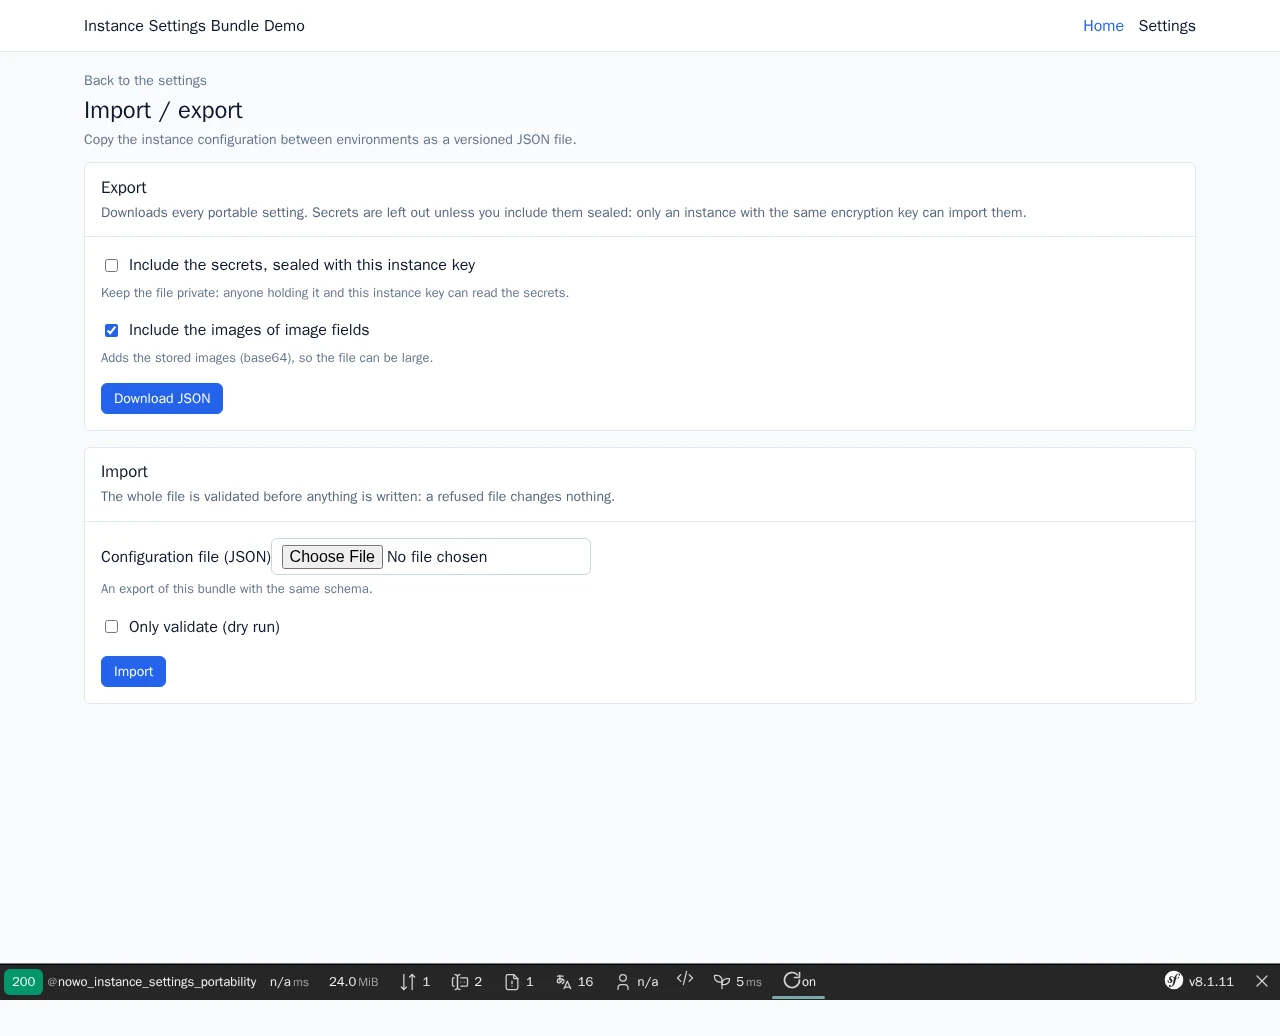
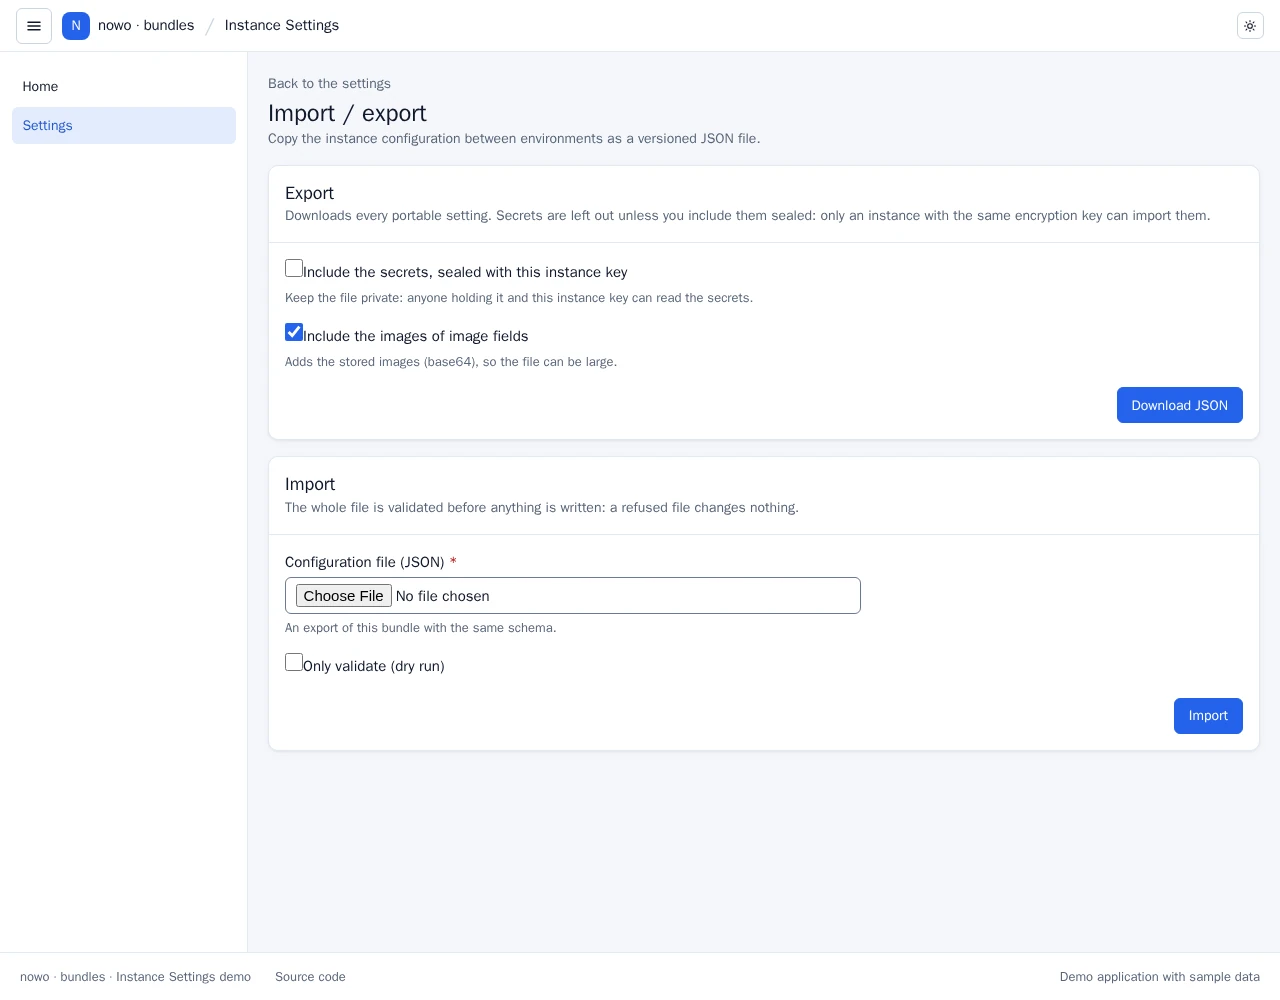
chore(demo): run the demo in UiKit's demo platform shell (#62)

diff --git a/demo/symfony8/e2e/tests/demo-platform.spec.ts b/demo/symfony8/e2e/tests/demo-platform.spec.ts
@@ -1,0 +1,174 @@
+import { test, expect, type Page } from '@playwright/test';
+import AxeBuilder from '@axe-core/playwright';
+
+/**
+ * UiKit demo platform shell (REQ-DEMO-014): layout grammar, demo styles, host theme tokens, framework classes, the
+ * closed phone drawer, 44 px touch targets and input borders on every demo page, plus axe (wcag2a / 2aa / 21a / 21aa,
+ * serious + critical = 0) in light and dark, desktop and phone, and the keyboard drawer pass.
+ */
+type Theme = 'light' | 'dark';
+type PageEntry = string | ((page: Page) => Promise<string>);
+
+async function prepare(_page: Page): Promise<void> {}
+
+async function setTheme(page: Page, theme: Theme): Promise<void> {
+  await page.evaluate((t) => {
+    document.documentElement.setAttribute('data-theme', t);
+    document.documentElement.setAttribute('data-bs-theme', t);
+  }, theme);
+}
+
+async function axe(page: Page): Promise<string[]> {
+  const result = await new AxeBuilder({ page }).withTags(['wcag2a', 'wcag2aa', 'wcag21a', 'wcag21aa']).exclude('.sf-toolbar').analyze();
+  return result.violations
+    .filter((v) => v.impact === 'serious' || v.impact === 'critical')
+    .map((v) => `${v.id}: ${v.nodes.map((n) => n.target.join(' ')).join(', ')}`);
+}
+
+/** The demo layout + style rules (docs/USAGE.md "Demo platform shell"; same function as the rollout brief's spec): layout grammar,
+ * no demo styles / host tokens / framework classes, closed drawer inert, 44 px targets on coarse pointers, input borders 3:1. */
+/* eslint-disable */
+// prettier-ignore
+function demoPlatformRules(): string[] {
+  const issues = [];
+  const main = document.querySelector('#nowo-ui-content');
+  const shell = document.querySelector('[data-testid="demo-platform"]');
+  if (!main || !shell) return ['no-demo-platform-shell'];
+  const visible = (el) => !!(el.offsetWidth || el.offsetHeight || el.getClientRects().length);
+  const carded = (el) => el.closest('.nowo-ui-card, [data-nowo-ui-region="table"], [data-nowo-ui-region="form"], .nowo-ui-form-panel, dialog');
+  const skip = (el) => el.closest('dialog, [data-nowo-ui-region="filters"], .nowo-ui-filters, .nowo-ui-page-header');
+
+  // Layout grammar.
+  main.querySelectorAll('table').forEach((t) => { if (!carded(t)) issues.push('table-outside-card'); });
+  main.querySelectorAll('form').forEach((f) => {
+    if (f.querySelector('input:not([type="hidden"]), select, textarea') && !carded(f) && !skip(f) && !f.closest('table')) issues.push('form-outside-card');
+  });
+  const primaries = [...main.querySelectorAll('.nowo-ui-btn--primary')].filter((b) => visible(b) && !b.closest('table, dialog, [data-nowo-ui-region="filters"], .nowo-ui-filters, form'));
+  if (primaries.length > 1) issues.push(`primary-buttons:${primaries.length}`);
+  const header = main.querySelector('.nowo-ui-page-header');
+  const flashes = main.querySelector('.nowo-ui-flashes');
+  if (header && flashes && (flashes.compareDocumentPosition(header) & Node.DOCUMENT_POSITION_FOLLOWING)) issues.push('flashes-before-page-header');
+  if (document.documentElement.scrollWidth > document.documentElement.clientWidth + 1) issues.push('page-scrolls-horizontally');
+
+  // Styles: no demo styles, no host theme tokens, no CDN / foreign stylesheet, no framework classes inside the shell.
+  document.querySelectorAll('style').forEach((s) => {
+    if (s.matches('[data-nowo-ui-theme-tokens], [data-nowo-ui-appearance]')) { issues.push('host-theme-tokens'); return; }
+    if (!/sf-toolbar|sfwdt|sf-minitoolbar|sf-display/.test(s.textContent || '') && !s.closest('[id^="sfwdt"], .sf-toolbar')) issues.push('style-element');
+  });
+  document.querySelectorAll('link[rel="stylesheet"]').forEach((l) => {
+    const path = new URL(l.href, location.href).pathname;
+    if (!path.startsWith('/bundles/') && !path.startsWith('/_wdt/') && !path.startsWith('/_profiler/')) issues.push(`stylesheet:${path}`);
+  });
+  const framework = /^(acme-.*|nav-tabs|nav-link|nav-item|alert|alert-.*|form-check.*|form-control|form-select|form-label|btn|btn-.*|card|card-.*|badge|row|col|col-.*|table|table-.*)$/;
+  shell.querySelectorAll('[class]').forEach((el) => {
+    for (const c of el.classList) { if (framework.test(c)) { issues.push(`framework-class:${c}`); break; } }
+  });
+
+  // Drawer: below 901 px a closed drawer is inert and the burger says so.
+  const aside = shell.querySelector('[data-nowo-ui-aside]');
+  if (aside && window.innerWidth < 901) {
+    const open = shell.classList.contains('is-aside-open-mobile');
+    if (!open && !aside.hasAttribute('inert')) issues.push('drawer-not-inert');
+    shell.querySelectorAll('[data-nowo-ui-burger]').forEach((b) => {
+      if (visible(b) && b.getAttribute('aria-expanded') !== (open ? 'true' : 'false')) issues.push('burger-state');
+    });
+  }
+
+  // Touch: 44 px targets on coarse pointers (checkbox / radio 24 px, their label carries the 44 px row).
+  if (window.matchMedia('(pointer: coarse)').matches) {
+    const controls = [...shell.querySelectorAll('.nowo-ui-btn, button, summary, input:not([type="hidden"]), select, textarea, [role="tab"], .nowo-ui-aside__link, .nowo-ui-demo-platform__locale')]
+      .filter((el) => visible(el) && !el.closest('[inert], table'));
+    for (const el of controls) {
+      const r = el.getBoundingClientRect();
+      const small = el.matches('input[type="checkbox"], input[type="radio"]') ? r.height < 24 || r.width < 24 : r.height < 43.5;
+      if (small) { issues.push(`target-under-44px:${(el.className && String(el.className).split(' ')[0]) || el.tagName.toLowerCase()}`); }
+    }
+  }
+
+  // Inputs: boundary 3:1 or more against the surface behind them (WCAG 1.4.11).
+  const rgb = (c) => { const m = c.match(/[\d.]+/g); return m ? m.slice(0, 4).map(Number) : null; };
+  const lum = (c) => { const v = c.slice(0, 3).map((x) => { const s = x / 255; return s <= 0.03928 ? s / 12.92 : ((s + 0.055) / 1.055) ** 2.4; }); return 0.2126 * v[0] + 0.7152 * v[1] + 0.0722 * v[2]; };
+  const bgOf = (el) => { for (let n = el.parentElement; n; n = n.parentElement) { const c = rgb(getComputedStyle(n).backgroundColor); if (c && (c.length < 4 || c[3] > 0)) return c; } return [255, 255, 255]; };
+  shell.querySelectorAll('input:not([type="hidden"], [type="checkbox"], [type="radio"]), select, textarea').forEach((el) => {
+    if (!visible(el) || el.closest('[inert]')) return;
+    const border = rgb(getComputedStyle(el).borderTopColor);
+    if (!border) return;
+    const a = lum(border); const b = lum(bgOf(el));
+    if ((Math.max(a, b) + 0.05) / (Math.min(a, b) + 0.05) < 3) issues.push(`input-border-under-3:1:${el.id || el.name || el.tagName.toLowerCase()}`);
+  });
+
+  return [...new Set(issues)];
+}
+
+
+const PAGES: PageEntry[] = ['/', '/admin/settings/sections/site', '/admin/settings/sections/mailer', '/admin/settings/sections/sms', '/admin/settings/portability'];
+
+const BUNDLE_OWNED: Array<{ path: RegExp; rule: RegExp }> = [
+  // Bundle-owned (colour field of the settings scaffold): the swatch is under 44 px on touch and its border under 3:1.
+  { path: /^\/admin\/settings\//, rule: /^(target-under-44px:nowo-instance-settings-color__swatch|input-border-under-3:1:settings_section_accent_color_swatch)/ },
+];
+
+/** Findings on a bundle's own page are reported as bundle-owned (not patched in the demo): they are filtered here, by path and rule. */
+function demo(url: string, issues: string[]): string[] {
+  const path = new URL(url).pathname;
+  return issues.filter((issue) => !BUNDLE_OWNED.some((o) => o.path.test(path) && o.rule.test(issue)));
+}
+
+async function resolvePath(page: Page, entry: PageEntry): Promise<string> {
+  return typeof entry === 'function' ? entry(page) : entry;
+}
+
+test.describe('demo platform rules', () => {
+  test('desktop 1440 px', async ({ page }) => {
+    await page.setViewportSize({ width: 1440, height: 900 });
+    await prepare(page);
+    for (const path of PAGES) {
+      await page.goto(await resolvePath(page, path));
+      expect(demo(page.url(), await page.evaluate(demoPlatformRules)), page.url()).toEqual([]);
+    }
+  });
+
+  test.describe('phone 390 px, touch', () => {
+    test.use({ viewport: { width: 390, height: 844 }, isMobile: true, hasTouch: true });
+
+    test('rules on every page', async ({ page }) => {
+      await prepare(page);
+      for (const path of PAGES) {
+        await page.goto(await resolvePath(page, path));
+        expect(demo(page.url(), await page.evaluate(demoPlatformRules)), page.url()).toEqual([]);
+      }
+    });
+
+    test('keyboard drawer pass', async ({ page }) => {
+      await prepare(page);
+      await page.goto(await resolvePath(page, PAGES[0]));
+      const aside = page.locator('[data-nowo-ui-aside]');
+      await expect(aside).toHaveAttribute('inert', '');
+      const burger = page.locator('[data-nowo-ui-burger]').first();
+      await expect(burger).toHaveAttribute('aria-expanded', 'false');
+      await burger.focus();
+      await page.keyboard.press('Enter');
+      await expect(page.getByTestId('demo-platform')).toHaveClass(/is-aside-open-mobile/);
+      await expect(page.locator('[data-nowo-ui-aside] :focus')).toHaveCount(1);
+      await expect(page.locator('.nowo-ui-main')).toHaveAttribute('inert', '');
+      await expect(page.locator('html')).toHaveClass(/nowo-ui-drawer-open/);
+      await page.keyboard.press('Escape');
+      await expect(burger).toBeFocused();
+      await expect(aside).toHaveAttribute('inert', '');
+    });
+  });
+
+  for (const theme of ['light', 'dark'] as Theme[]) {
+    for (const [name, width] of [['desktop', 1440], ['phone', 390]] as const) {
+      test(`axe clean: ${name}, ${theme}`, async ({ page }) => {
+        await page.setViewportSize({ width, height: 900 });
+        await prepare(page);
+        for (const path of PAGES) {
+          await page.goto(await resolvePath(page, path));
+          await setTheme(page, theme);
+          expect(demo(page.url(), await axe(page)), page.url()).toEqual([]);
+        }
+      });
+    }
+  }
+});

diff --git a/demo/symfony8/e2e/tests/helpers.ts b/demo/symfony8/e2e/tests/helpers.ts
@@ -1,25 +1,9 @@
 import { type Page } from '@playwright/test';
 
-/** Wait until the Symfony Web Debug Toolbar has finished loading (optional outside dev). */
+/** The Symfony Web Debug Toolbar is not part of the demo platform: hide it so it never appears in a capture. */
 export async function waitForWebProfiler(page: Page): Promise<void> {
-  await page.waitForSelector('.sf-toolbar', { state: 'visible', timeout: 20000 }).catch(() => undefined);
-  const mini = page.locator('.sf-minitoolbar a').first();
-  if (await mini.isVisible().catch(() => false)) {
-    await mini.click();
-  }
-  await page
-    .waitForFunction(
-      () => {
-        const bar = document.querySelector('.sf-toolbar') as HTMLElement | null;
-        if (!bar || bar.offsetParent === null) {
-          return true;
-        }
-        return !!document.querySelector('.sf-toolbar-block');
-      },
-      { timeout: 25000, polling: 250 },
-    )
-    .catch(() => undefined);
-  await new Promise((r) => setTimeout(r, 400));
+  await page.addStyleTag({ content: '.sf-toolbar,.sf-minitoolbar,[id^="sfwdt"]{display:none!important}' });
+  await new Promise((r) => setTimeout(r, 300));
 }
 
 /** The section form of the settings scaffold. */

diff --git a/demo/symfony8/config/reference.php b/demo/symfony8/config/reference.php
@@ -1414,10 +1414,18 @@ use Symfony\Component\Config\Loader\ParamConfigurator as Param;
  *         tokens_dark?: array<string, mixed>,
  *         confirm_message_in_header?: bool|Param, // Confirm dialogs and the full-page confirm render the message inside the header, under the title (hosts whose dialog header is title + message). View\Confirm::messageInHeader wins when set. // Default: false
  *         popover_menus?: bool|Param, // 2.4: menu / kebab / row-action menus render their panel as a native [popover] (browser top layer: never clipped by table scrollers or cards; nowo-ui-popover.js places it). The partial option `popover` wins. // Default: false
+ *         context_menus?: bool|Param, // 2.54: kebab / row-action menus also open as the context menu of the row or card around them (right-click, the ContextMenu key, Shift+F10, long press on touch), with the same items. Loads the opt-in context-menu runtime through the scripts partial. The partial option `context_menu` wins; data-nowo-ui-context-menu="off" opts a row out. // Default: false
  *         form_errors_after_widget?: bool|Param, // 2.10: the UiKit form theme (form/nowo_ui_layout.html.twig) prints a field's errors after its widget (and before the help), instead of Symfony's order (label, errors, widget, help). // Default: false
  *         menu_semantics?: null|"menu"|"disclosure"|Param, // 2.28: ARIA of popover menus with items. null (default) = as 2.27; menu = APG menu button (role="menu" / menuitem, arrow keys in nowo-ui-popover.js); disclosure = no aria-haspopup. The menu partial option `menu_semantics` wins. // Default: null
  *         dialog?: array{ // 2.31: kit dialog options (docs/THEMING.md#dialog-sizes-229).
  *             height?: "content"|"size"|Param, // 2.31: content (default, dialog rule v2) = a dialog is as tall as its content, capped at min(the size's height token, 100dvh - 2rem), only the body scrolls; size = every dialog with a field, list, table or fold has the size's height (2.29 / 2.30), printed as --nowo-ui-dialog-fill: 1 by nowo_ui_theme_css(). // Default: "content"
+ *         },
+ *         focus_mode?: array{ // 2.55: shell focus mode — [data-nowo-ui-focus-mode] toggles hide the shell regions (level 1) and optionally enter the browser fullscreen (level 2); js/nowo-ui-focus-mode.js. See docs/USAGE.md#shell-focus-mode-255.
+ *             enabled?: bool|Param, // false (default): no shell attributes, no focus bar, the focus_mode_toggle partial renders nothing and the scripts partial does not load the runtime. // Default: false
+ *             regions?: list<scalar|Param|null>,
+ *             keep?: list<scalar|Param|null>,
+ *             shortcut?: scalar|Param|null, // Key that toggles level 1 on pages with a toggle (never while typing, with a modifier pressed or with a dialog / menu open); e.g. F or Alt+Shift+F. null or false: no shortcut. // Default: "F"
+ *             fullscreen?: bool|Param, // Offer level 2 (the browser fullscreen on the shell, from the focus bar or a fullscreen toggle). Unsupported or refused by the browser: level 1 stays. // Default: true
  *         },
  *         bundles?: array<string, array{ // Default: []
  *             framework_defaults?: bool|Param, // Override of theme.framework_defaults for this bundle (unset = inherit).
@@ -1489,6 +1497,7 @@ use Symfony\Component\Config\Loader\ParamConfigurator as Param;
  *         sidebar_rail_value?: scalar|Param|null, // Cookie value of the icons-only rail. // Default: "rail"
  *         sidebar_storage?: scalar|Param|null, // localStorage key of the aside mode (data-nowo-ui-sidebar-storage on the shell root; kit_styles + rail only). // Default: null
  *         sidebar_layout?: "below-header"|"full-height"|Param, // 2.32: below-header (default, the 2.31 markup byte for byte) | full-height: on desktop the aside runs from the top edge with the burger and the brand in its head (aside_brand_html / brand_icon_html + brand_name / brand_html), the header and the footer start at its right edge. The app_shell_open option sidebar_layout, then the request attribute _nowo_ui_sidebar_layout, win over it. // Default: "below-header"
+ *         sidebar_style?: "classic"|"inset"|Param, // 2.52: classic (default, the 2.51 markup byte for byte) | inset: on desktop the header, the aside and the footer share one shell surface with no border between them, and the content is an inset panel with rounded corners (tokens --nowo-ui-shell-inset-gap / -radius / -surface / -panel-surface). Phones are unchanged. The app_shell_open option sidebar_style, then the request attribute _nowo_ui_sidebar_style, win over it. // Default: "classic"
  *         brand?: array{ // 2.32: the shell brand from config (no template override): the aside head of the full-height layout, and the header brand when a page passes neither brand_html nor brand. The app_shell_open options brand_name / brand_href / brand_icon_src / brand_icon_html / aside_brand_html win.
  *             name?: scalar|Param|null, // Brand name (text); the icons-only rail hides it and keeps it as the link name. // Default: null
  *             href?: scalar|Param|null, // Brand link: relative, http, https or mailto (validated when the container compiles; javascript:, data: and other schemes are refused). // Default: null
@@ -1660,6 +1669,8 @@ use Symfony\Component\Config\Loader\ParamConfigurator as Param;
  *         area_roles?: array<string, list<scalar|Param|null>>,
  *         reveal_roles?: list<scalar|Param|null>,
  *         reveal_rate_limiter?: scalar|Param|null, // 1.15: service id of a Symfony RateLimiterFactory (framework.rate_limiter.<name> gives limiter.<name>) consuming one token per reveal, keyed by the hashed actor; null = no limit. // Default: null
+ *         test_roles?: mixed, // 1.18: roles that may run the Test button of a section (any of them), asked on top of the section's own area. Null (default) = whoever may open the section may test it; an empty list refuses every test. With access_checker set, the custom checker decides the "_test" area (asked only when this is not null). // Default: null
+ *         test_rate_limiter?: scalar|Param|null, // 1.18: service id of a Symfony RateLimiterFactory consuming one token per section test, keyed by the hashed actor; null = the built-in limit (10 tests per actor per 10 minutes, kept in the settings store). // Default: null
  *         access_checker?: scalar|Param|null, // Service id implementing InstanceSettingsAccessCheckerInterface; null = role-based default. // Default: null
  *         allow_unauthenticated?: bool|Param, // DEV / DEMO only (refused without kernel.debug): open the UI without login. // Default: false
  *     },
@@ -1727,6 +1738,33 @@ use Symfony\Component\Config\Loader\ParamConfigurator as Param;
  *         warning?: bool|Param, // The settings page warns on the section and next to an expiring secret within warning_days of its date, or expired. // Default: true
  *         warning_days?: int|Param, // Days before the date from which the page warns (0 = only on the day and once expired). // Default: 30
  *         timezone?: scalar|Param|null, // Zone of "today" for the thresholds and the warning (e.g. "Europe/Madrid"). Null: the PHP default zone. // Default: null
+ *         notify?: array{ // Default expiry notifier (1.21): a mail and / or a NotifyKit bell notification to the people holding notify.roles at notify.days before a stored secret expires, once per secret, threshold and recipient. Off by default. Needs expiring_secrets.enabled.
+ *             enabled?: bool|Param, // Registers the notifier and maps its sent-marker table (instance_setting_secret_expiry_notice). Off by default: no schema change. Literal boolean only. // Default: false
+ *             days?: list<int|Param>,
+ *             roles?: list<scalar|Param|null>,
+ *             recipient_provider?: scalar|Param|null, // Service id implementing Expiry\Notify\ExpiryRecipientProviderInterface: the active users holding any of the roles (the bundle has no user model). Required when enabled. // Default: null
+ *             mail_template?: scalar|Param|null, // Twig template of the reminder mail without the suffix: <mail_template>.html.twig and <mail_template>.txt.twig. // Default: "@NowoInstanceSettingsBundle/expiry/notice"
+ *             mail_from?: scalar|Param|null, // From address of the reminder mail. Null = the mailer's (MailKit fills it from its settings). // Default: null
+ *             link_route?: scalar|Param|null, // Route of the link (gets the "section" parameter). Null = the section's settings page (no link without web_ui). // Default: null
+ *             fallback_link_route?: scalar|Param|null, // Route (no parameters) of the link for recipients who cannot open the settings (ExpiryRecipient::$canOpenSettings false). Null = no link. // Default: null
+ *             retention_days?: int|Param, // nowo:instance-settings:purge-expiry-notices deletes the sent-markers of expiry dates older than this many days (they hold recipient ids). // Default: 90
+ *             channels?: array{ // auto: mail when nowo-tech/mail-kit-bundle is installed, the bell when nowo-tech/notify-kit-bundle is; on: required (mail needs symfony/mailer); off: never.
+ *                 mail?: "auto"|"on"|"off"|Param, // Default: "auto"
+ *                 notify_kit?: "auto"|"on"|"off"|Param, // Default: "auto"
+ *             },
+ *             notify_kit?: array{ // NotifyKit bell channel options.
+ *                 recipient_type?: scalar|Param|null, // NotifyKit recipient type of ExpiryRecipient ids. // Default: "user"
+ *                 category?: scalar|Param|null, // NotifyKit category of the two types. // Default: "instance_settings"
+ *                 declare_category?: bool|Param, // Declare the category (false: the host declares it). // Default: true
+ *             },
+ *         },
+ *     },
+ *     conflict_response?: array{ // 1.22 (REQ-RUNTIME-003): answer of a lock conflict (deadlock, lock wait timeout, serialization failure) on the bundle's routes. Unset: nowo-tech/transaction-doctrine's conflict_response when that bundle is registered, else 409 with Retry-After 1.
+ *         status?: int|Param, // 409 (default, CONFLICT_001 / CONFLICT_002) or 503 (the 1.19-1.21 answer). Null: follow transaction-doctrine, else 409. // Default: null
+ *         retry_after?: int|Param, // Retry-After seconds of a CONFLICT_001 answer when the failure carries no hint. Null: follow transaction-doctrine, else 1. // Default: null
+ *     },
+ *     runtime_setting?: array{ // 1.20: nowo-tech/runtime-setting-contract source and writer over the settings (section.field ids), with section version tokens and rotation. Needs nowo-tech/runtime-setting-contract. Maps instance_setting_runtime_version and instance_setting_runtime_previous: off by default, no schema change.
+ *         enabled?: bool|Param, // Literal boolean only. // Default: false
  *     },
  * }
  * @psalm-type DebugConfig = array{

diff --git a/docs/CHANGELOG.md b/docs/CHANGELOG.md
@@ -44,6 +44,10 @@ All notable changes to this project are documented here. The format follows
 
 ## [Unreleased]
 
+### Changed
+
+- Demo: runs in UiKit's demo platform shell (`nowo-tech/ui-kit-bundle` ^2.60; shared top bar, aside, page header and section cards; no demo stylesheet or `<style>`). Demo only, no bundle change.
+
 ## [1.23.1] - 2026-11-21
 
 ### Fixed
